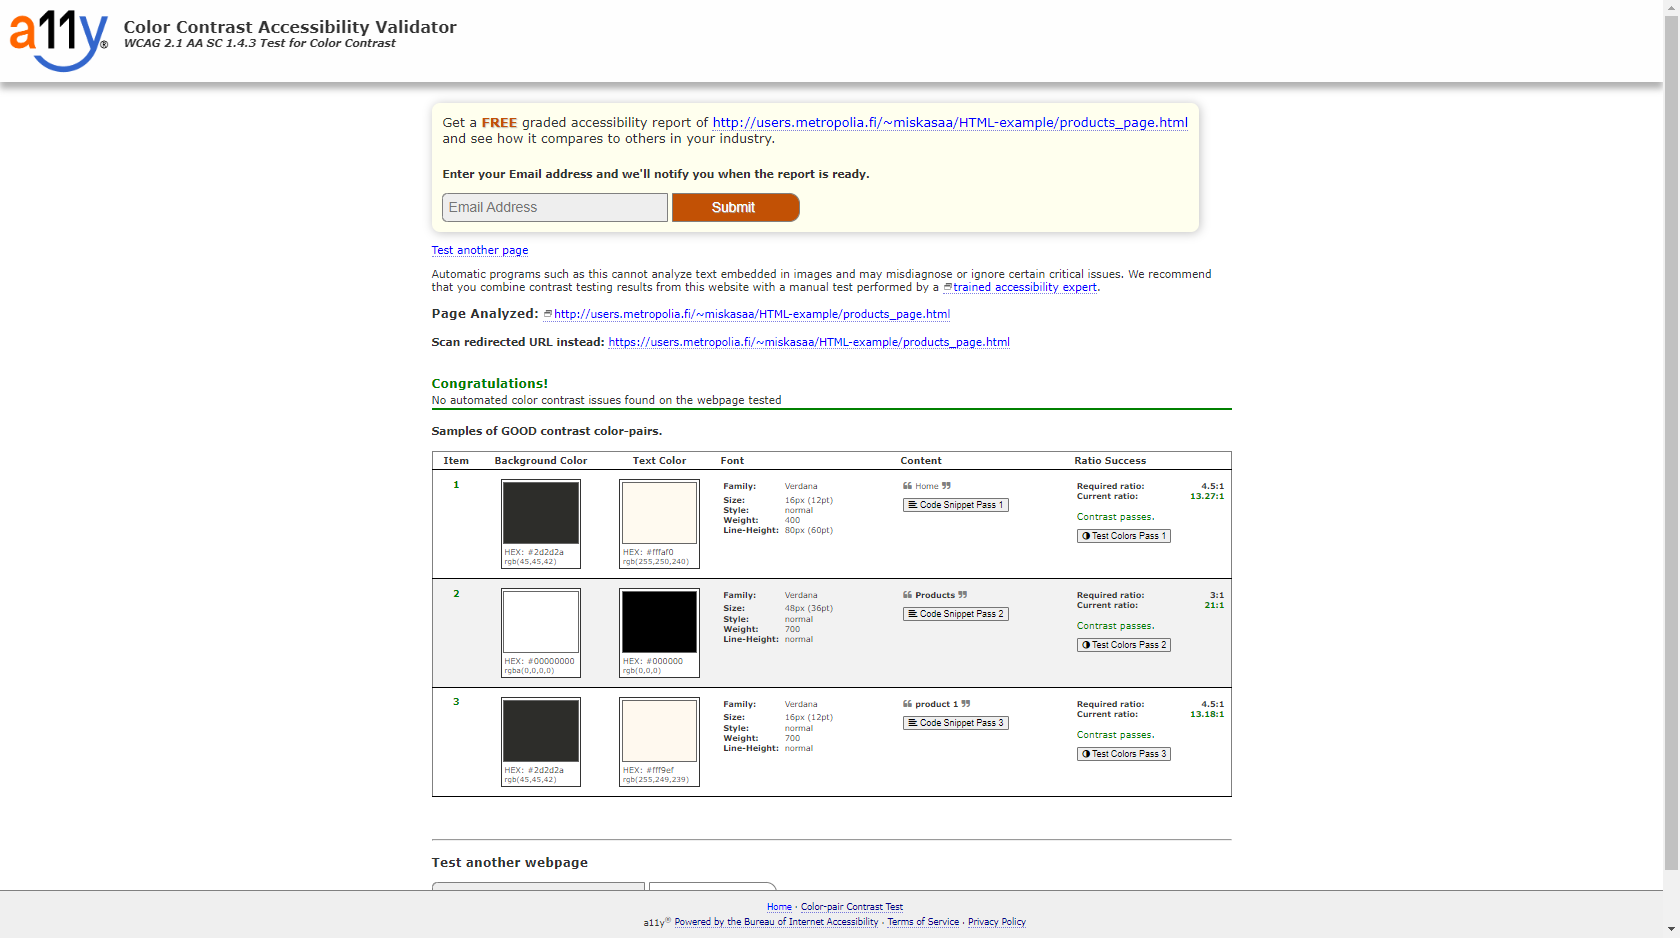
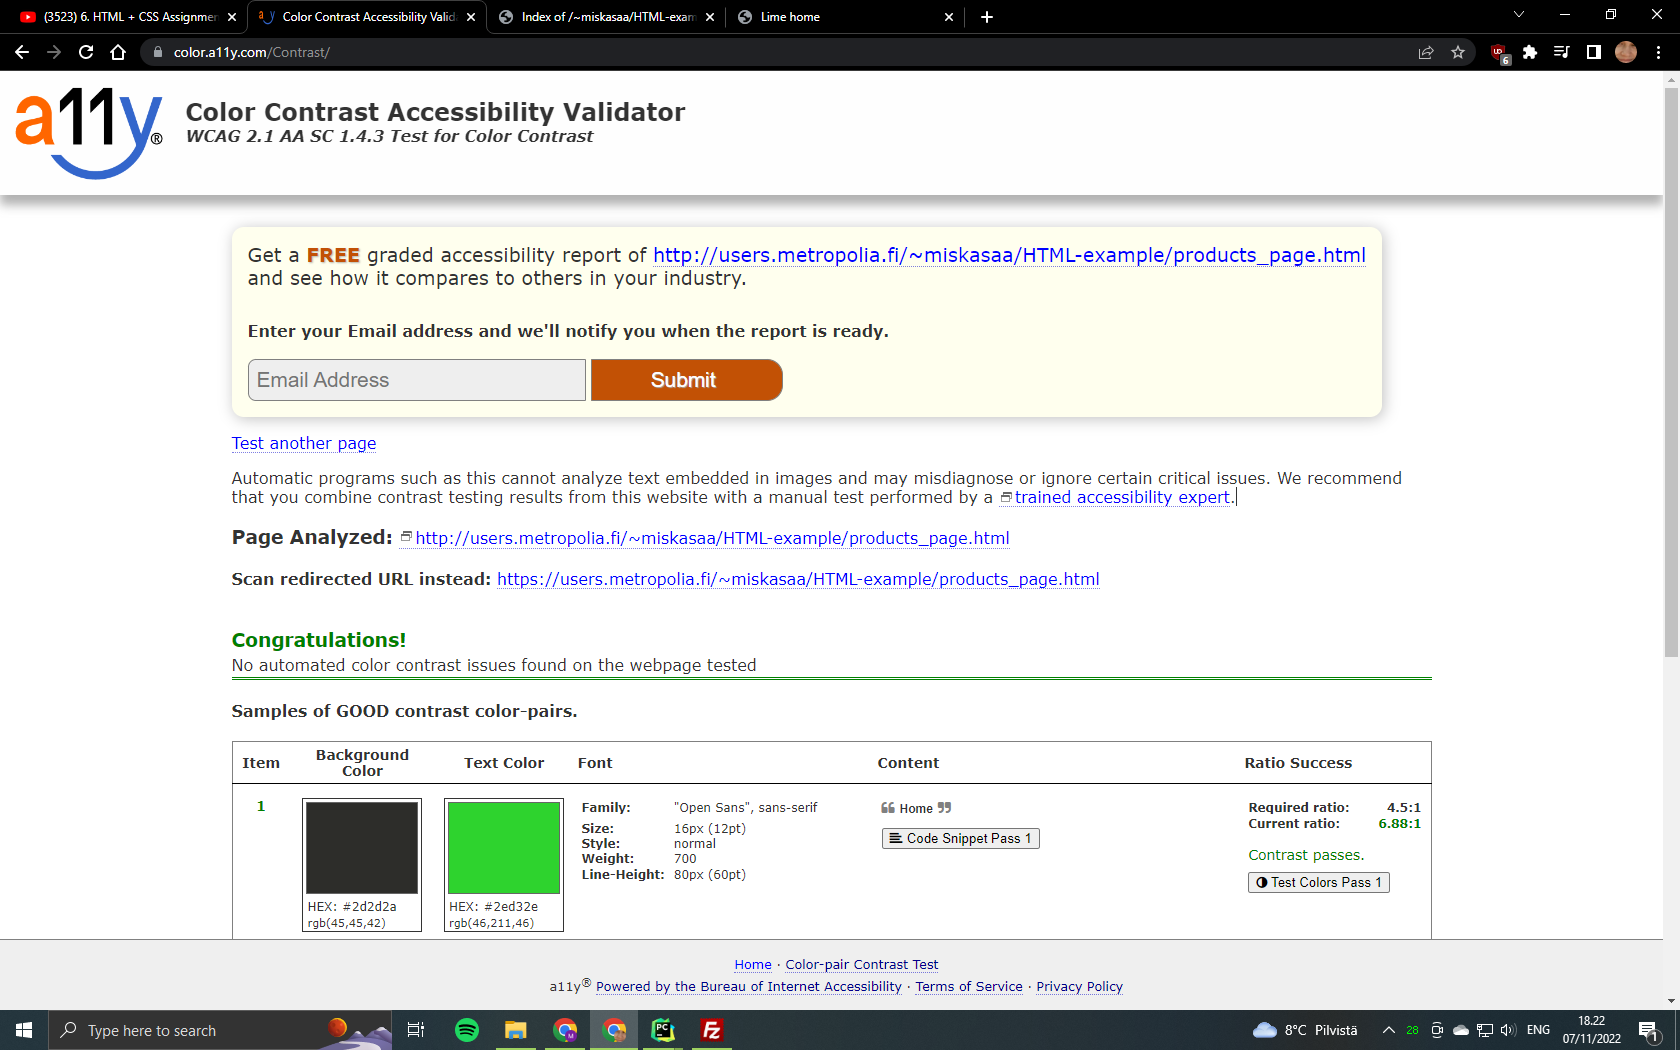
palautus säätöä

diff --git a/zpalautus.html b/zpalautus.html
@@ -1,0 +1,33 @@
+<!DOCTYPE html>
+<html lang="en">
+<head>
+    <meta charset="UTF-8">
+    <title>Results</title>
+</head>
+<body>
+<h2>Font</h2>
+<p>Font is from <a href="https://fonts.google.com/specimen/Open+Sans">Google Fonts. Name: Open sans</a></p>
+<pre>
+html {
+    font-family: 'Open Sans', sans-serif;
+}
+</pre>
+<h2>Validation</h2>
+<p>
+    <img src="images/validator%20html-example%20home_page.png" alt="contrast">
+    <img src="images/validator%20html-example%20products_page.png" alt="contrast">
+    <img src="images/validator%20html-example%20contact_page.png" alt="contrast">
+</p>
+<h2>Lighthouse</h2>
+<p>
+    <img src="images/lighthouse%20test%20html-example%20all_pages.png" alt="lighthouse">
+</p>
+<h2>Contrast</h2>
+<p>
+    <img src="images/color%20contrast%20test%20html-example%20home_page.png" alt="valid">
+    <img src="images/color%20contrast%20test%20html-example%20products_page.png" alt="valid">
+    <img src="images/color%20contrast%20test%20html-example%20contact_page.png" alt="valid">
+</p>
+
+</body>
+</html>
